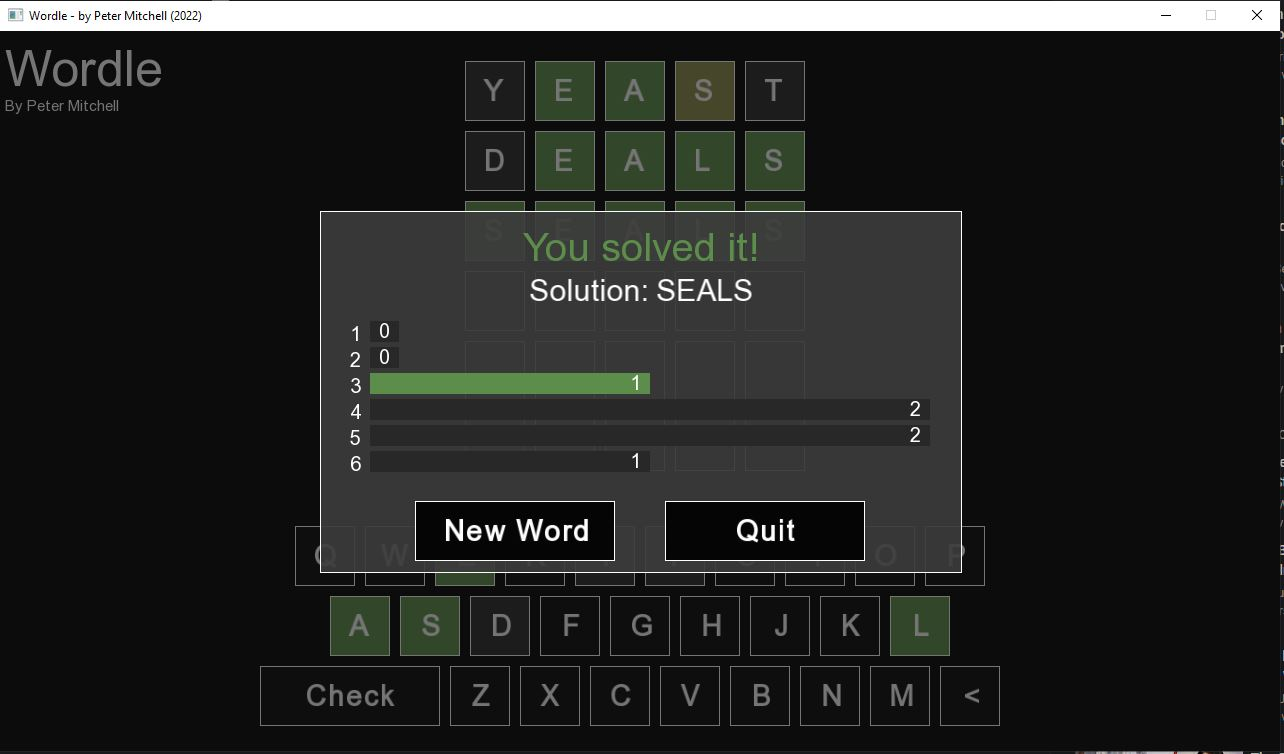
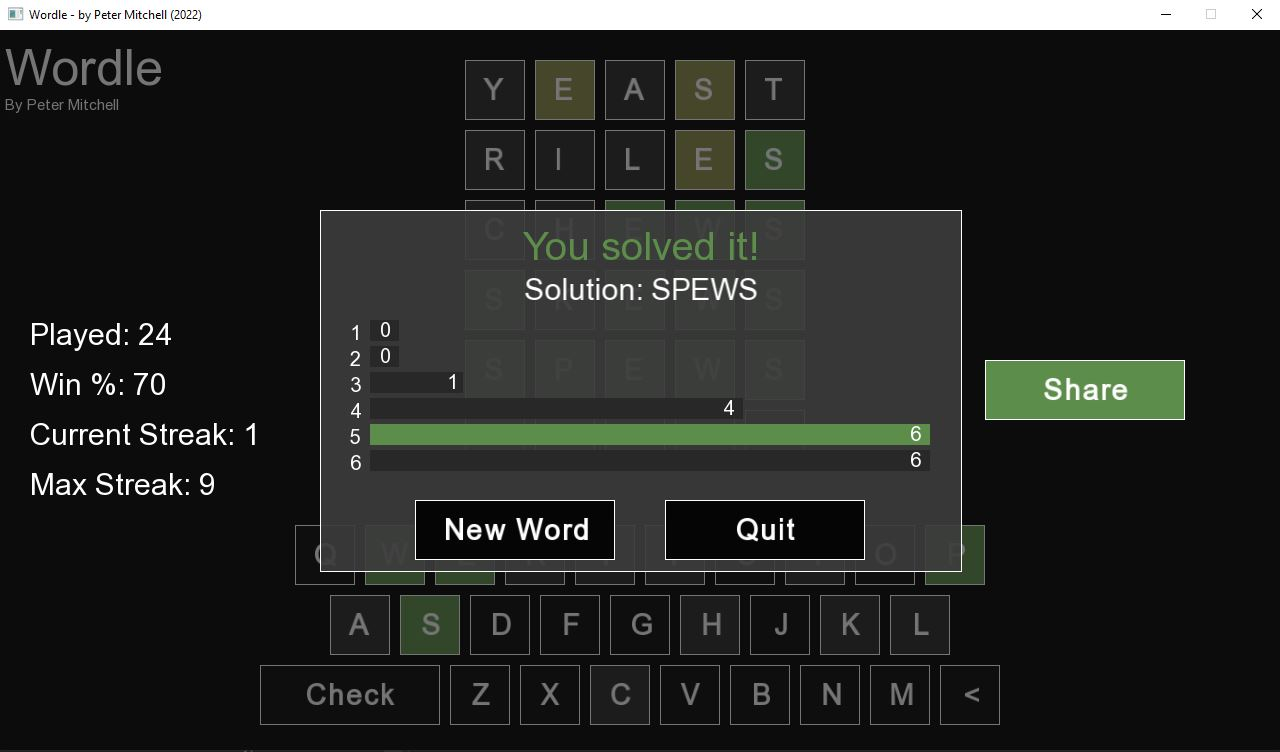
Added share button and new images.

diff --git a/WordleSFML/WordleSFML/PostGameWnd.cpp b/WordleSFML/WordleSFML/PostGameWnd.cpp
@@ -1,7 +1,7 @@
 #include "PostGameWnd.h"
 
-PostGameWnd::PostGameWnd(const sf::IntRect & bounds, const sf::Font & font, const std::string & solution, const bool wonGame, const int attempts, const std::unique_ptr<PlayHistory>& playHistory)
-	: WndInterface(bounds)
+PostGameWnd::PostGameWnd(const sf::IntRect & bounds, const sf::Font & font, const std::string & solution, const bool wonGame, const int attempts, const std::unique_ptr<PlayHistory>& playHistory, const std::string& shareStr)
+	: WndInterface(bounds), _shareStr(shareStr)
 {
 	_resultState = WndResultState::NothingState;
 
@@ -23,6 +23,10 @@ PostGameWnd::PostGameWnd(const sf::IntRect & bounds, const sf::Font & font, cons
 
 	_buttons.emplace_back(Button(sf::IntRect(bounds.left + bounds.width / 2 - 225, bounds.top + bounds.height * 3 / 4 - 70, 200, 60), "New Word", 0, font));
 	_buttons.emplace_back(Button(sf::IntRect(bounds.left + bounds.width / 2 + 25, bounds.top + bounds.height * 3 / 4 - 70, 200, 60), "Quit", 1, font));
+
+	_buttons.emplace_back(Button(sf::IntRect(bounds.left + bounds.width * 3 / 4 + 25, bounds.top + bounds.height / 2 - 30, 200, 60), "Share", 2, font));
+	_buttons.at(_buttons.size() - 1).setBackgroundColour(sf::Color(93, 141, 74));
+
 
 	sf::IntRect histogramRect = sf::IntRect(bounds.left + bounds.width / 4 + 30, bounds.top + bounds.height / 4 + 10 + 50 + 40 + 10,
 		bounds.width / 2 - 60, bounds.top + bounds.height * 3 / 4 - 70 - (bounds.top + bounds.height / 4 + 10 + 50 + 40));
@@ -64,6 +68,9 @@ void PostGameWnd::handleMousePress(const sf::Vector2i & mousePosition, bool isLe
 			}
 			else if (button.getActionID() == 1) {
 				_resultState = WndResultState::Quit;
+			}
+			else if (button.getActionID() == 2) {
+				sf::Clipboard::setString(_shareStr);
 			}
 		}
 	}

diff --git a/WordleSFML/WordleSFML/GuessGrid.cpp b/WordleSFML/WordleSFML/GuessGrid.cpp
@@ -157,6 +157,32 @@ std::string GuessGrid::getSolution() const
 	return _solution;
 }
 
+std::string GuessGrid::getShareString() const
+{
+	std::stringstream message;
+	message << "Peter's Custom Wordle Game" << std::endl << "\"" << _solution << "\": ";
+	message << (_solved ? "Solved: " : "Did not solve: ") << (_currentWordIndex) << "/6" << std::endl <<std::endl;
+
+	// generate the puzzle coloured title view
+	for (int i = 0; i < _currentWordIndex; i++) {
+		std::stringstream ruleStream;
+		for (int j = 0; j < _solution.length(); j++) {
+			if (_guessLetters.at(i).at(j).getSolutionState() == PuzzleLetter::SolutionState::CORRECT) {
+				message << ":green_square:";
+			}
+			else if (_guessLetters.at(i).at(j).getSolutionState() == PuzzleLetter::SolutionState::WRONG_POS) {
+				message << ":yellow_square:";
+			}
+			else {
+				message << ":black_large_square:";
+			}
+		}
+		message << std::endl;
+	}
+
+	return message.str();
+}
+
 void GuessGrid::initialiseAllGuesses(const sf::Font & font, const int wordLength, const int maxGuesses)
 {
 	int elementHeight = 60;

diff --git a/WordleSFML/WordleSFML/PostGameWnd.h b/WordleSFML/WordleSFML/PostGameWnd.h
@@ -16,7 +16,8 @@ class PostGameWnd :
 {
 public:
 	// Initialises the window with details about the game and a choice to start a new game or quit.
-	PostGameWnd(const sf::IntRect& bounds, const sf::Font& font, const std::string& solution, const bool wonGame, const int attempts, const std::unique_ptr<PlayHistory>& playHistory);
+	PostGameWnd(const sf::IntRect& bounds, const sf::Font& font, const std::string& solution, const bool wonGame, 
+				const int attempts, const std::unique_ptr<PlayHistory>& playHistory, const std::string& shareStr);
 	virtual ~PostGameWnd() = default;
 
 	// Does nothing
@@ -76,5 +77,8 @@ private:
 
 	// Text showing the best win streak
 	std::unique_ptr<sf::Text> _maxStreakText;
+
+	// Text used to share the result
+	std::string _shareStr;
 };
 

diff --git a/WordleSFML/WordleSFML/Game.cpp b/WordleSFML/WordleSFML/Game.cpp
@@ -51,7 +51,7 @@ void Game::update(const float deltaTime)
 			else {
 				_playHistory->insertHistoryLoss();
 			}
-			_activeOverlay = new PostGameWnd(_bounds, _font, solution, guessGrid.isSolved(), rules.size(), _playHistory);
+			_activeOverlay = new PostGameWnd(_bounds, _font, solution, guessGrid.isSolved(), rules.size(), _playHistory, guessGrid.getShareString());
 		}
 	}
 }

diff --git a/WordleSFML/WordleSFML/GuessGrid.h b/WordleSFML/WordleSFML/GuessGrid.h
@@ -54,6 +54,9 @@ public:
 	// Gets the solution that the user is matching
 	std::string getSolution() const;
 
+	// Gets a string representing the finished puzzle state.
+	std::string getShareString() const;
+
 private:
 	// The collection of letters
 	std::vector<std::vector<PuzzleLetter>> _guessLetters;

diff --git a/README.md b/README.md
@@ -17,6 +17,14 @@ You can play the game by either clicking on the keys at the bottom or by typing 
 
 <img src="./images/image01.jpg">
 
+Example victory screen with options to start a new game, quit, or share to clipboard. You can also view stats from how you have been going on the left and via the histogram in the middle.
+
 <img src="./images/image02.jpg">
 
+Similar to the victory screen the loss screen shows no highlighted bar and different coloured title text. You can still share your loss if you wish via the share button.
+
 <img src="./images/image03.jpg">
+
+Using the share button will give you a string that can be pasted into places like Discord or Facebook to share your score. This uses the same tile approach as output by the original Wordle game's share button.
+
+<img src="./images/image04.jpg">
